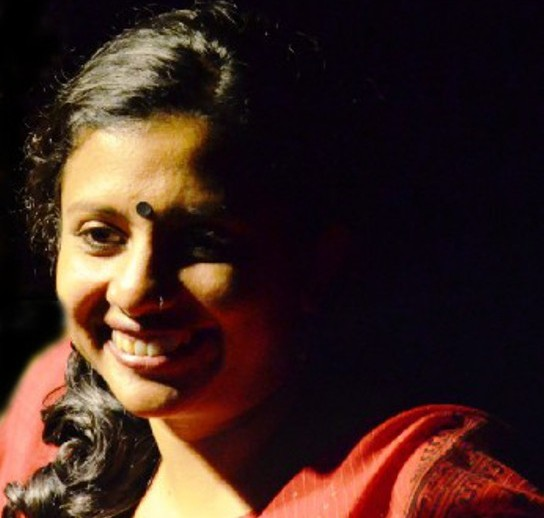
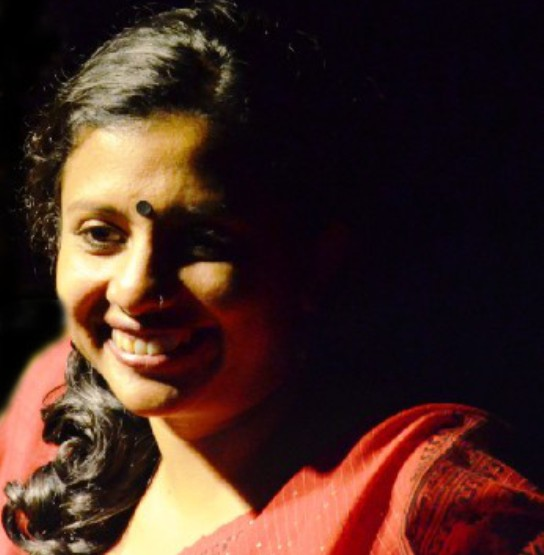
Added 3rd Speaker details

diff --git a/index.html b/index.html
@@ -193,7 +193,7 @@
                 <div class="clearfix"></div>
             </div>
             <div class="row container-fluid">
-                <div class="col-sm-4 col-sm-offset-2 col-xs-12 speaker-container wow fadeInUp" data-wow-duration="1000ms" data-wow-delay="300ms">
+                <div class="col-sm-4 col-xs-12 speaker-container wow fadeInUp" data-wow-duration="1000ms" data-wow-delay="300ms">
                     <div class="product-front col-sm-12 container" style="padding:0px;">
                         <div class="col-sm-12 image-container">
                             <img src="images/Speakers/preview.jpg" class="img img-responsive" alt="" />
@@ -228,6 +228,25 @@
                                 <span class="product-name">Dr. U S Vishal Rao</span>
                                 <p>Medical Entrepreneur</p>
                                 <a href="#vishal-popup" class="open-popup-link read-more" style="display:none;">View Details</a>
+                            </div>
+                        </div>
+                    </div>
+                </div>
+                <div class="col-sm-4 col-xs-12 speaker-container wow fadeInUp" data-wow-duration="1000ms" data-wow-delay="300ms">
+                    <div class="product-front col-sm-12 container" style="padding:0px;">
+                        <div class="col-sm-12 image-container">
+                            <img src="images/Speakers/aditiramesh.png" class="img img-responsive" alt="" />
+                
+                            <div class="image-overlay"></div>
+                        </div>
+                        <div class="view-details">
+                            <a href="#aditi-popup" class="open-popup-link">View details</a>
+                        </div>
+                        <div class="stats col-sm-12">
+                            <div class="stats-container text-center">
+                                <span class="product-name">Aditi Ramesh</span>
+                                <p>Vocalist & Composer</p>
+                                <a href="#aditi-popup" class="open-popup-link read-more" style="display:none;">View Details</a>
                             </div>
                         </div>
                     </div>
@@ -479,6 +498,17 @@
             decorated personality, Dr. Vishal Rao has to his credit the Aum voice prosthesis device. He works alongside a plethora of
             hospitals and is a recurrent visiting professor at top-notch universities. His work speaks for himself, take a glimpse :
             http://www.bbc.com/news/business-41969801</p>
+        </div>
+    </div>
+
+    <div id="aditi-popup" class="mfp-hide white-popup text-center">
+        <img src="images/Speakers/aditiramesh.png" class="img-responsive">
+        <div style="padding: 20px;">
+            <h3>Dr. U S Vishal Rao</h3>
+            <h4>Vocalist & Composer</h4>
+            <p>Aditi's music is a juxtaposition of the mundane realities of life and the need to break stereotypes. The gripping sonic content
+            and modulations leaves her audience rapt. Her music is a seamless blend of Jazz with elements of Carnatic.
+            </p>
         </div>
     </div>
 
